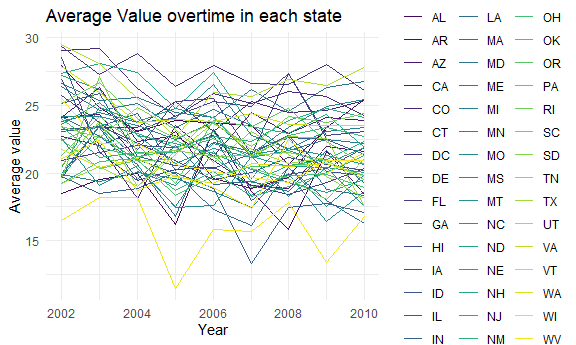
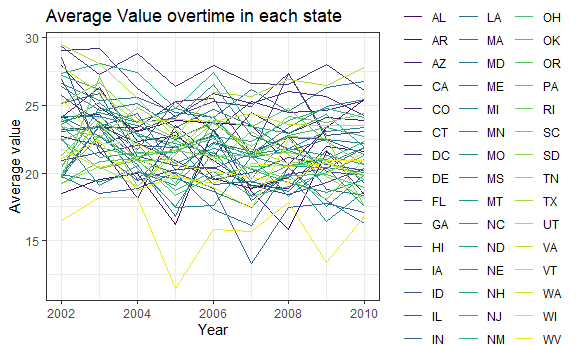
Problem 3 Completed -- Create a table for total activity variable for each day and a single-panel plot

diff --git a/P8105_hw3_lc3605.md b/P8105_hw3_lc3605.md
@@ -242,7 +242,7 @@ brfss_df %>%
   summarize(mean_value = mean(data_value)) %>% 
   ggplot(aes(x = year, y = mean_value, group = state, color = state)) +
   geom_line() +
-  theme(legend.position = "right") +
+  theme_bw() +
   labs(
     title = "Average Value overtime in each state",
     x = "Year",
@@ -273,7 +273,7 @@ labs(
 
 ## Problem 3:
 
-Load, tidy, the accelerometer data.
+Load, tidy, the `accelerometer` data.
 
 ``` r
 accel_df = 
@@ -303,7 +303,67 @@ Also, in order to distinguish between weekdays and weekends,
 -   Create a total activity variable for each day, and create a table
     showing these totals. Are any trends apparent?
 
-Accelerometer data allows the inspection activity over the course of the
-day. Make a single-panel plot that shows the 24-hour activity time
-courses for each day and use color to indicate day of the week. Describe
-in words any patterns or conclusions you can make based on this graph.
+``` r
+accel_df %>%
+  group_by(day, week) %>% 
+  summarize(total_activity = sum(activity_count)) %>% 
+  pivot_wider(
+    names_from = "day",
+    values_from = "total_activity"
+  ) %>% 
+  knitr::kable(digits = 0)
+```
+
+    ## `summarise()` has grouped output by 'day'. You can override using the `.groups` argument.
+
+| week | Sunday | Monday | Tuesday | Wednesday | Thursday | Friday | Saturday |
+|-----:|-------:|-------:|--------:|----------:|---------:|-------:|---------:|
+|    1 | 631105 |  78828 |  307094 |    340115 |   355924 | 480543 |   376254 |
+|    2 | 422018 | 295431 |  423245 |    440962 |   474048 | 568839 |   607175 |
+|    3 | 467052 | 685910 |  381507 |    468869 |   371230 | 467420 |   382928 |
+|    4 | 260617 | 409450 |  319568 |    434460 |   340291 | 154049 |     1440 |
+|    5 | 138421 | 389080 |  367824 |    445366 |   549658 | 620860 |     1440 |
+
+According to the resulting table, this man tends to have a stable level
+of activity over weekdays with Monday being less active than other
+weekdays in the first two weeks. There is extremely low activity levels
+on the Saturday of week 4 and 5.
+
+-   Make a single-panel plot that shows the 24-hour activity time
+    courses for each day.
+
+``` r
+accel_df %>% 
+  ggplot(aes(x = activity_minute, y = activity_count)) + 
+  geom_line(aes(color = day)) +
+  labs(y = "Total Activity (min)", x = "Day", title = "24-hour activity time of 63 year-old male")
+```
+
+<img src="P8105_hw3_lc3605_files/figure-gfm/unnamed-chunk-9-1.png" width="90%" />
+
+``` r
+accel_df %>% 
+  mutate(hour = round(activity_minute/60)) %>% 
+  group_by(day, hour) %>% 
+  summarize(hourly_activity = mean(activity_count)) %>% 
+  ggplot(aes(x = hour, y = hourly_activity, color = day)) + 
+  geom_line() +
+  geom_point(size = 1.5) +
+  scale_x_continuous(name = "Hour", breaks = seq(0, 24, by = 2)) +
+  labs(
+    title = "24 hour activity time of 63 year-old male",
+    x = "Hour",
+    y = "Activity",
+    color = "Day of the Week"
+  )
+```
+
+<img src="P8105_hw3_lc3605_files/figure-gfm/unnamed-chunk-9-2.png" width="90%" />
+
+The plot shows that the man is more active at night (Around 20:00 to
+22:00) and less active at midnight during sleeping hours from 23:00 to
+6:00AM. On weekdays, Tuesday, Wednesday, Thursday has roughly a steady
+trend, but on Friday, Sunday, and Monday has a more fluctuating trend
+with a peak. The two largest peaks belong to Sundays between 9 and 13
+and Fridays between 21 and 23. Generally, the man is more active during
+weekdays than weekends.
